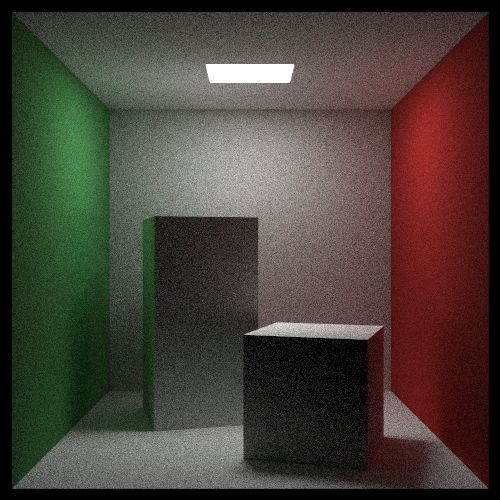
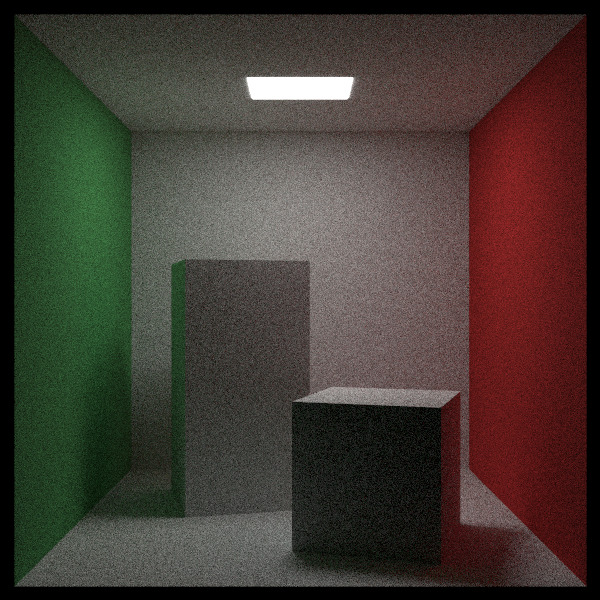
Update listing 17
Resolves #1018

Changed region(s): [[0.03, 0.03, 0.93, 0.99], [0.75, 0.69, 0.99, 0.99], [0.63, 0.81, 0.66, 0.84]]

diff --git a/books/RayTracingTheRestOfYourLife.html b/books/RayTracingTheRestOfYourLife.html
@@ -1646,7 +1646,7 @@ Let’s adjust some parameters for the Cornell box:
     int main() {
         ...
     ~~~~~~~~~~~~~~~~~~~~~~~~~~~~~~~~~~~~~~~~~~~~~~~~~~~~~~~~~~~~~~~~~~~~~~~~~~~~~~~~~~ C++ highlight
-        cam.samples_per_pixel = 100;
+        cam.samples_per_pixel = 1000;
     ~~~~~~~~~~~~~~~~~~~~~~~~~~~~~~~~~~~~~~~~~~~~~~~~~~~~~~~~~~~~~~~~~~~~~~~~~~~~~~~~~~~~~~~~~~~~ C++
         ...
     }
